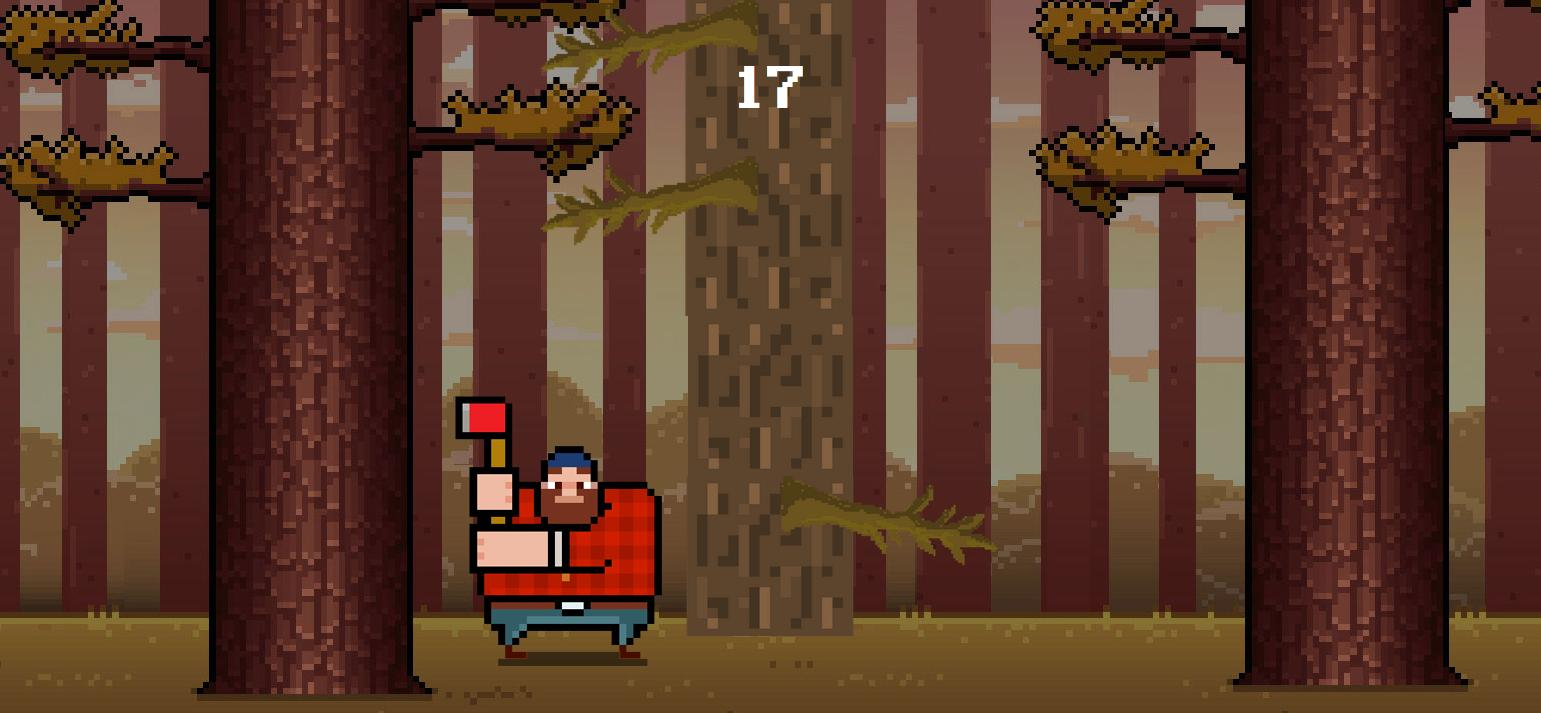
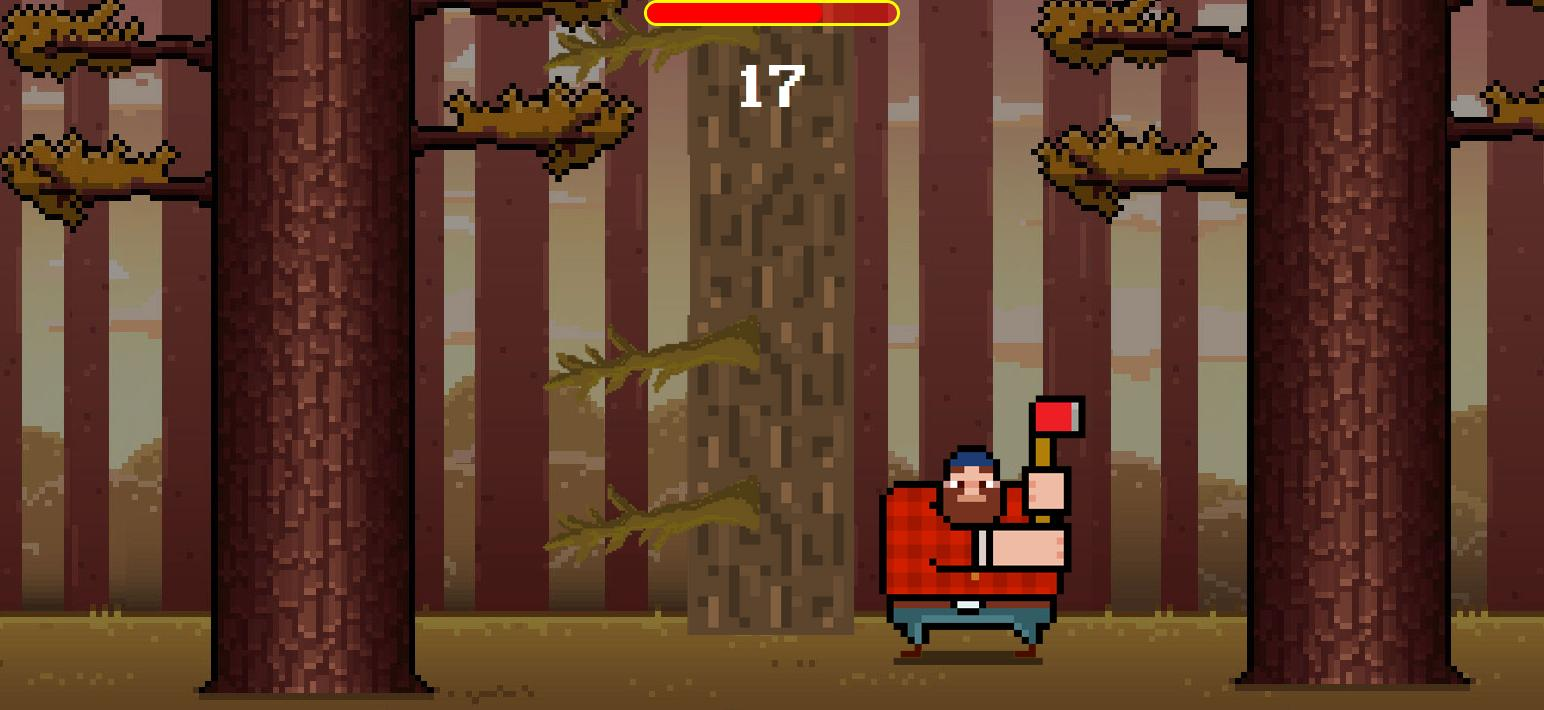
Implement countdown to game over

diff --git a/src/App.js b/src/App.js
@@ -4,6 +4,7 @@ import Score from './components/Score.js';
 import Player from './components/Player.js';
 import Tree from './components/Tree.js';
 import GameResetModal from './components/GameResetModal';
+import TimeBar from './components/TimeBar.js';
 
 import './App.css';
 
@@ -17,10 +18,23 @@ function App() {
   const [highscore, setHighscore] = useState(
     parseInt(localStorage.getItem('highscore')) || 0
   );
+
+  const [timeLeft, setTimeLeft] = useState(100);
   const [gameRunning, setGameRunning] = useState(true);
 
   const player = useRef(null);
   const tree = useRef(null);
+
+  useEffect(() => {
+    setInterval(() => {
+      if (gameRunning && timeLeft > 0) {
+        setTimeLeft(timeLeft => {
+          if (timeLeft - 10 === 0) return gameOver();
+          return timeLeft - 10;
+        });
+      }
+    }, 700);
+  }, []);
 
   const gameOver = () => {
     if (points > highscore) {
@@ -34,9 +48,10 @@ function App() {
   };
 
   const resetGame = () => {
-    tree.current.resetTree();
+    if (tree.current) tree.current.resetTree();
     setPoints(0);
     setGameRunning(true);
+    setTimeLeft(100);
   };
 
   const increaseScore = () => {
@@ -54,6 +69,7 @@ function App() {
       (direction === DIRECTIONS.LEFT && nextBranch === 'left_branch')
     )
       return gameOver();
+    if (timeLeft + 10 <= 100) setTimeLeft(timeLeft => timeLeft + 10);
     player.current.classList.remove(DIRECTIONS.LEFT, DIRECTIONS.RIGHT);
 
     player.current.classList.add(direction);
@@ -86,7 +102,10 @@ function App() {
   return (
     <div className='App'>
       {gameRunning ? (
-        <Score points={points} />
+        <div>
+          <TimeBar time={timeLeft} />
+          <Score points={points} />
+        </div>
       ) : (
         <GameResetModal
           score={points}

diff --git a/src/App.css b/src/App.css
@@ -122,6 +122,26 @@ body {
   transform: translateY(-2px);
 }
 
+.timebar {
+  position: absolute;
+  left: 50%;
+  transform: translateX(-50%);
+  width: 250px;
+  height: 20px;
+  border: 3px solid #ff0;
+  background-color: rgba(255, 0, 0, 0.5);
+  margin-top: 5px;
+  z-index: 9999;
+  border-radius: 15px;
+}
+
+.timebar__time {
+  height: 100%;
+  border-radius: 15px;
+  background: #f00;
+  transition: width 0.3s ease-in-out;
+}
+
 @media (min-width: 1800px) {
   .player {
     top: 550px;

diff --git a/src/components/TimeBar.js b/src/components/TimeBar.js
@@ -1,0 +1,9 @@
+const TimeBar = ({ time }) => {
+  return (
+    <div className='timebar'>
+      <div className='timebar__time' style={{ width: `${time}%` }}></div>
+    </div>
+  );
+};
+
+export default TimeBar;
